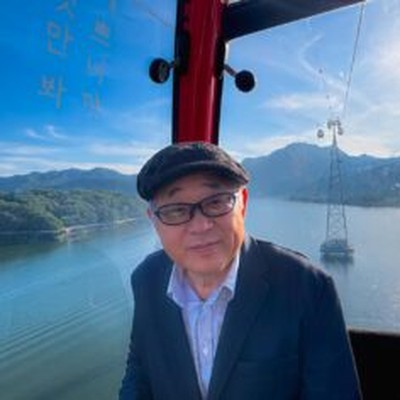
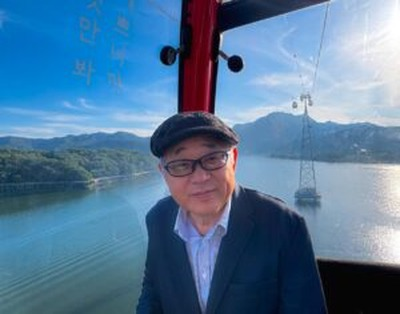
fix: speaker photos uncropped + object-position:top to preserve faces

diff --git a/src/app/globals.css b/src/app/globals.css
@@ -451,6 +451,7 @@ section { padding: 100px 40px; }
   width: 100%;
   height: 100%;
   object-fit: cover;
+  object-position: top;
   display: block;
   transition: transform 0.5s ease;
 }
@@ -524,7 +525,7 @@ section { padding: 100px 40px; }
   background: linear-gradient(160deg, rgba(232,101,74,0.15) 0%, rgba(15,40,71,0.5) 100%);
 }
 
-.plenary-img-wrap img { width: 100%; height: 100%; object-fit: cover; display: block; transition: transform 0.5s ease; }
+.plenary-img-wrap img { width: 100%; height: 100%; object-fit: cover; object-position: top; display: block; transition: transform 0.5s ease; }
 .plenary-speaker:hover .plenary-img-wrap img { transform: scale(1.04); }
 
 .plenary-img-placeholder-lg {
